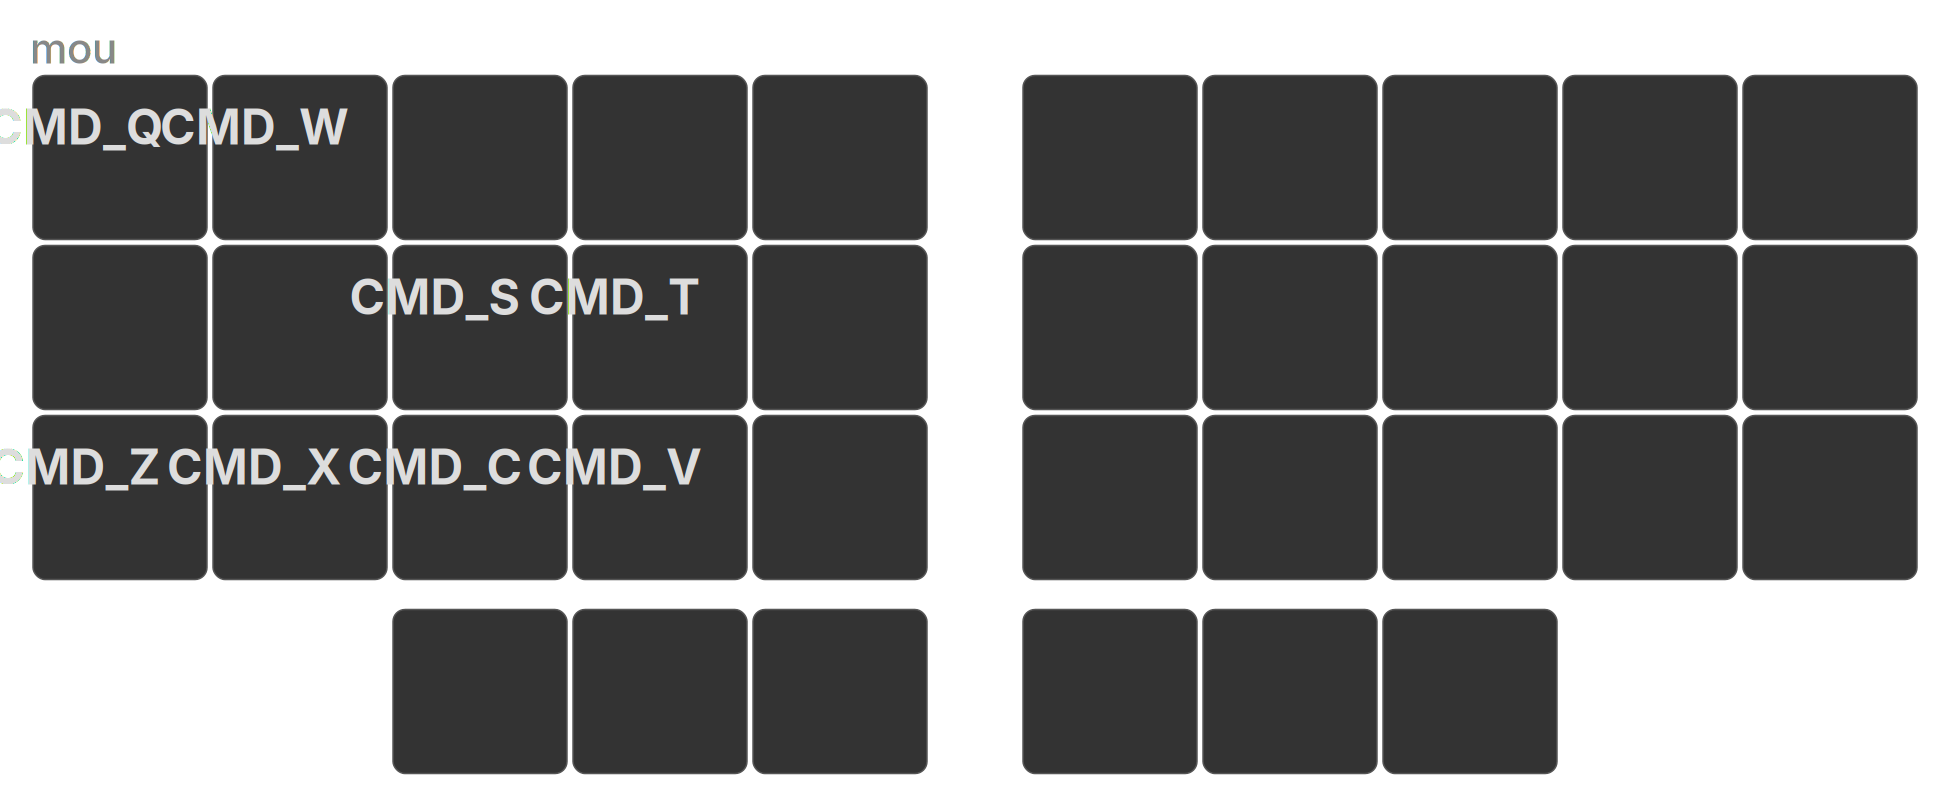
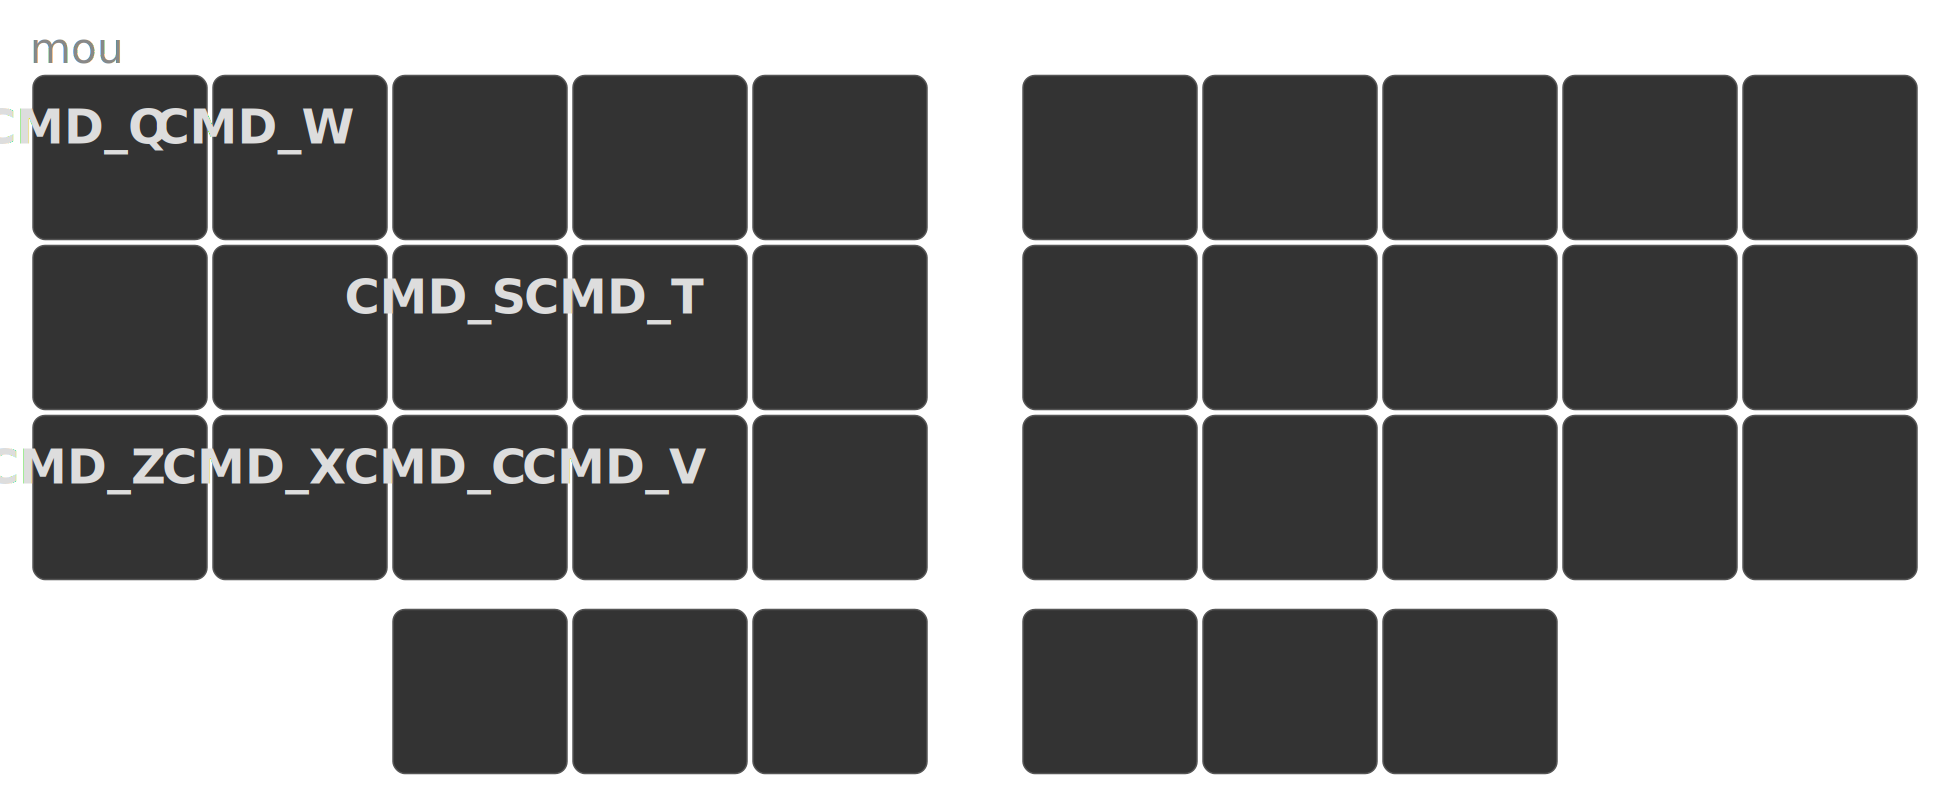
Move combos to middle/ring finger

diff --git a/dubu36-ergo/qmk/dubu36ergo/keymaps/default/keymap.c b/dubu36-ergo/qmk/dubu36ergo/keymaps/default/keymap.c
@@ -23,15 +23,15 @@ KC_NO, KC_NO, KC_NO, S(KC_TAB), KC_TAB, KC_NO
 };
 
 
-const uint16_t PROGMEM combo0[] = {KC_M, KC_COMMA, COMBO_END};
-const uint16_t PROGMEM combo1[] = {KC_NO, COMBO_END};
+const uint16_t PROGMEM combo0[] = {KC_COMMA, KC_DOT, COMBO_END};
+const uint16_t PROGMEM combo1[] = {KC_X, KC_C, COMBO_END};
 const uint16_t PROGMEM combo2[] = {KC_NO, COMBO_END};
 const uint16_t PROGMEM combo3[] = {KC_NO, COMBO_END};
 const uint16_t PROGMEM combo4[] = {KC_NO, COMBO_END};
 
 combo_t key_combos[COMBO_COUNT] = {
 	COMBO(combo0, KC_ENT),
-	COMBO(combo1, KC_NO),
+	COMBO(combo1, KC_ESC),
 	COMBO(combo2, KC_NO),
 	COMBO(combo3, KC_NO),
 	COMBO(combo4, KC_NO)
